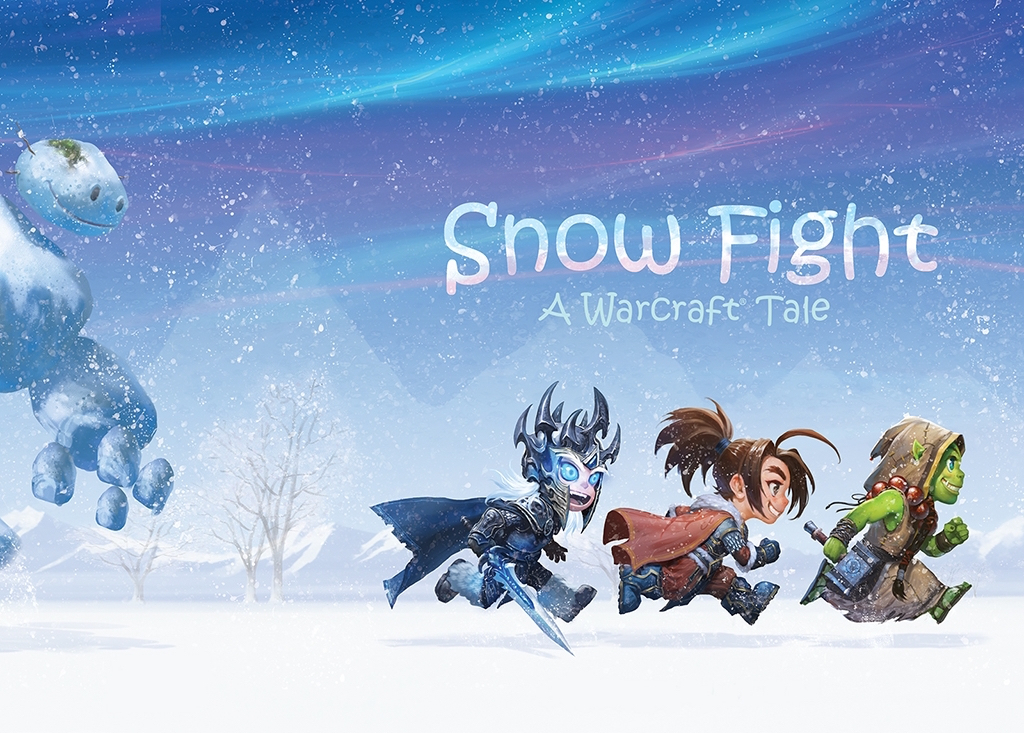
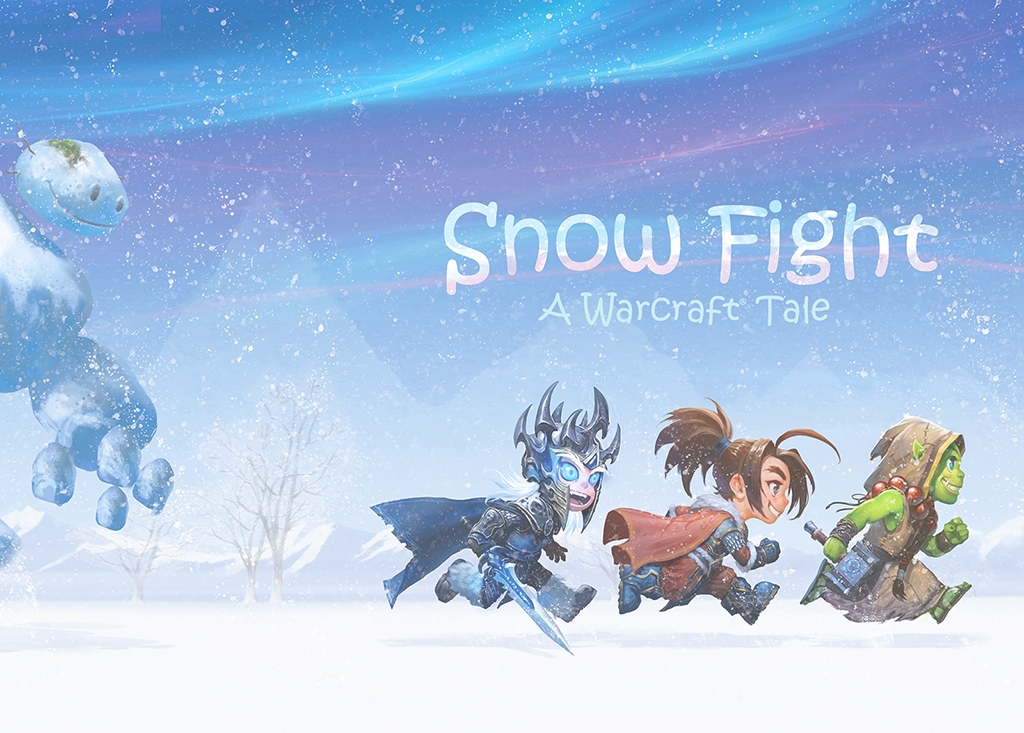
bgv

diff --git a/GamersConflict/GamersConflict/Library/News/View/GCNewsSubView.m b/GamersConflict/GamersConflict/Library/News/View/GCNewsSubView.m
@@ -43,6 +43,8 @@ static NSString * const reUesId = @"subViewCell";
     self.dataSource = self;
     self.delegate = self;
     self.rowHeight = 300;
+    self.separatorColor = [UIColor blackColor];
+    self.layer.borderColor = [[UIColor blackColor] CGColor];
     self.showsVerticalScrollIndicator = NO;
     [self registerNib:[UINib nibWithNibName:kNewsSubViewCell bundle:nil] forCellReuseIdentifier:reUesId];
     self.mj_header = [MJRefreshNormalHeader headerWithRefreshingBlock:^{
@@ -107,6 +109,7 @@ static NSString * const reUesId = @"subViewCell";
     if (self.articlesList.count > 0) {
         GCNewsSubModel *model = self.articlesList[indexPath.row];
         [cell setCellWithModel:model];
+        cell.separatorInset = UIEdgeInsetsMake(0, 8, 0, 13);
     }
     return cell;
 }

diff --git a/GamersConflict/GamersConflict/Library/News/ViewController/GCNewsViewController.m b/GamersConflict/GamersConflict/Library/News/ViewController/GCNewsViewController.m
@@ -48,10 +48,10 @@
         [self.view.subviews performSelector:@selector(removeFromSuperview)];
     }
     
-    UIImageView *imageView = [[UIImageView alloc] initWithFrame:CGRectMake(0, 0, ScreenHeight * 1024 / 733, ScreenHeight)];
+    UIImageView *imageView = [[UIImageView alloc] initWithFrame:CGRectMake(- ScreenHeight * (kBGVWHRate - 1) / 5, 0, ScreenHeight * kBGVWHRate, ScreenHeight)];
     NSLog(@"%@", NSStringFromCGRect(imageView.frame));
     imageView.image = [UIImage imageNamed:@"2"];
-    imageView.alpha = 0.8;
+    imageView.alpha = 1;
     [self.view addSubview:imageView];
     self.view.backgroundColor = [UIColor grayColor];
     

diff --git a/GamersConflict/GamersConflict/Library/News/View/GCNewsSuperView.m b/GamersConflict/GamersConflict/Library/News/View/GCNewsSuperView.m
@@ -85,6 +85,9 @@
 }
 
 - (void)scrollViewDidScroll:(UIScrollView *)scrollView {
+    UIImageView *backgroundView = [self.superview.subviews firstObject];
+    CGRect frame = backgroundView.frame;
+    backgroundView.frame = CGRectMake(- ScreenHeight * (kBGVWHRate - 1) / 5 - (ScreenHeight * kBGVWHRate - ScreenWidth) * scrollView.contentOffset.x / 5 / ScreenWidth, 0, frame.size.width, frame.size.height);
 }
 
 - (void)scrollViewDidEndDecelerating:(UIScrollView *)scrollView {
